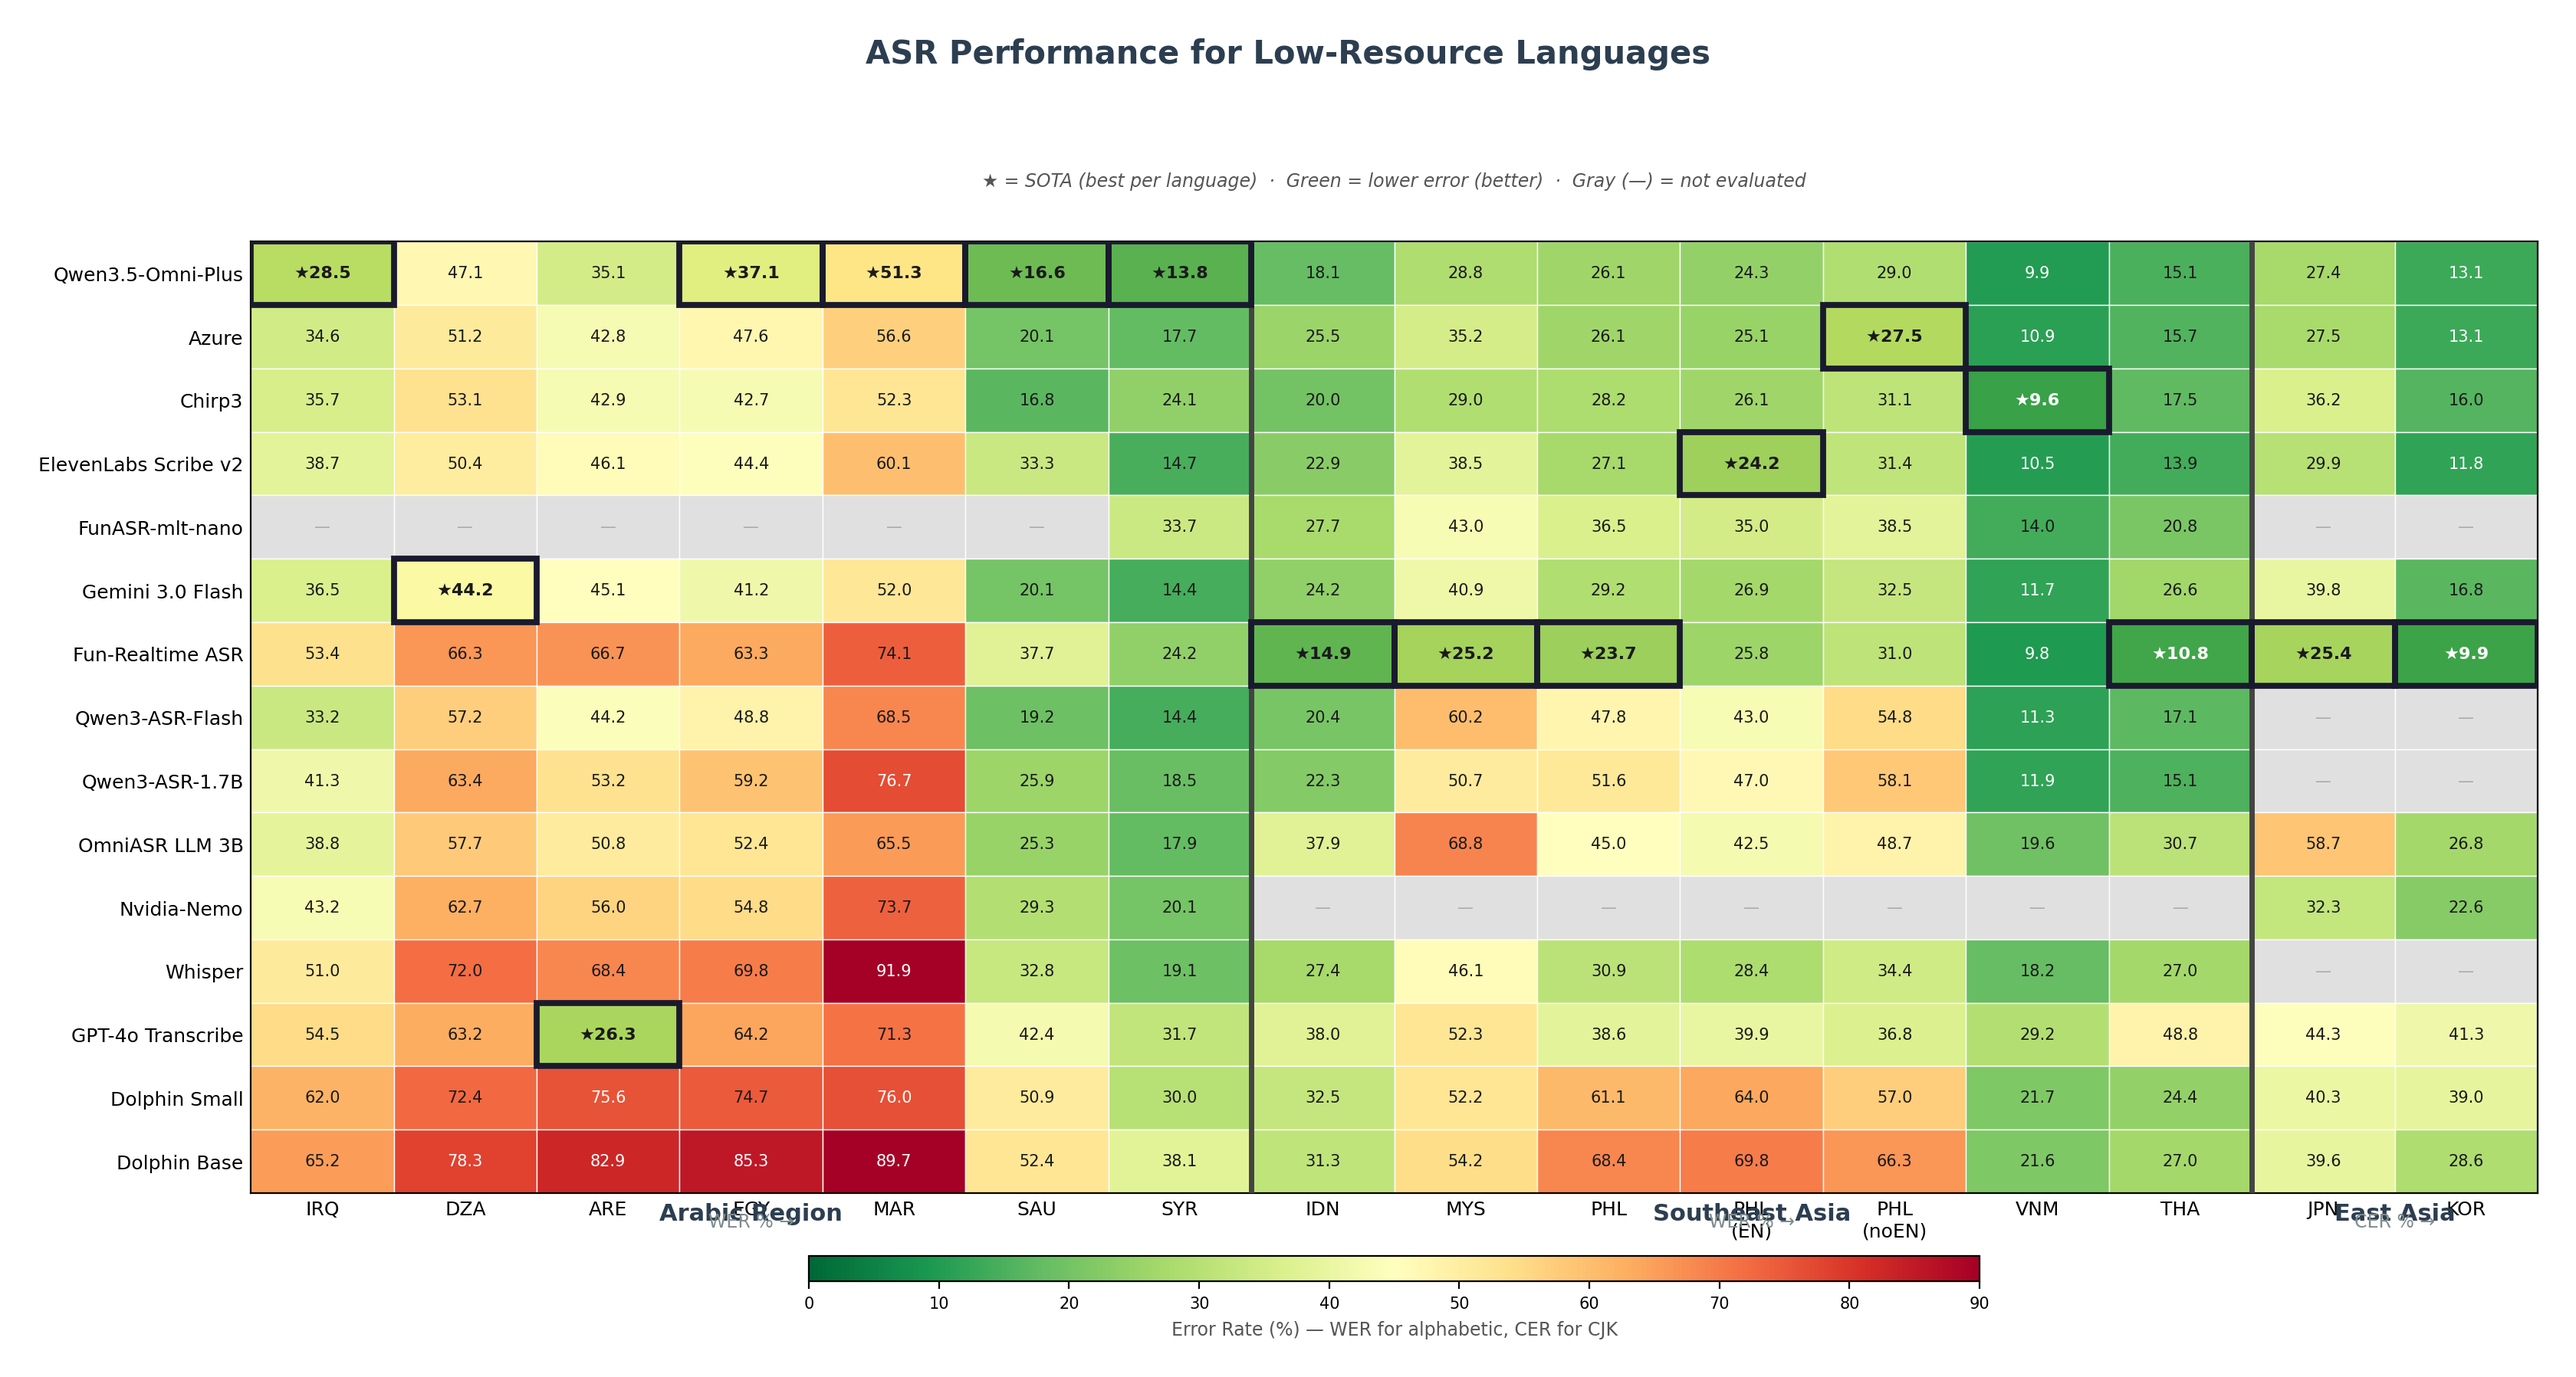
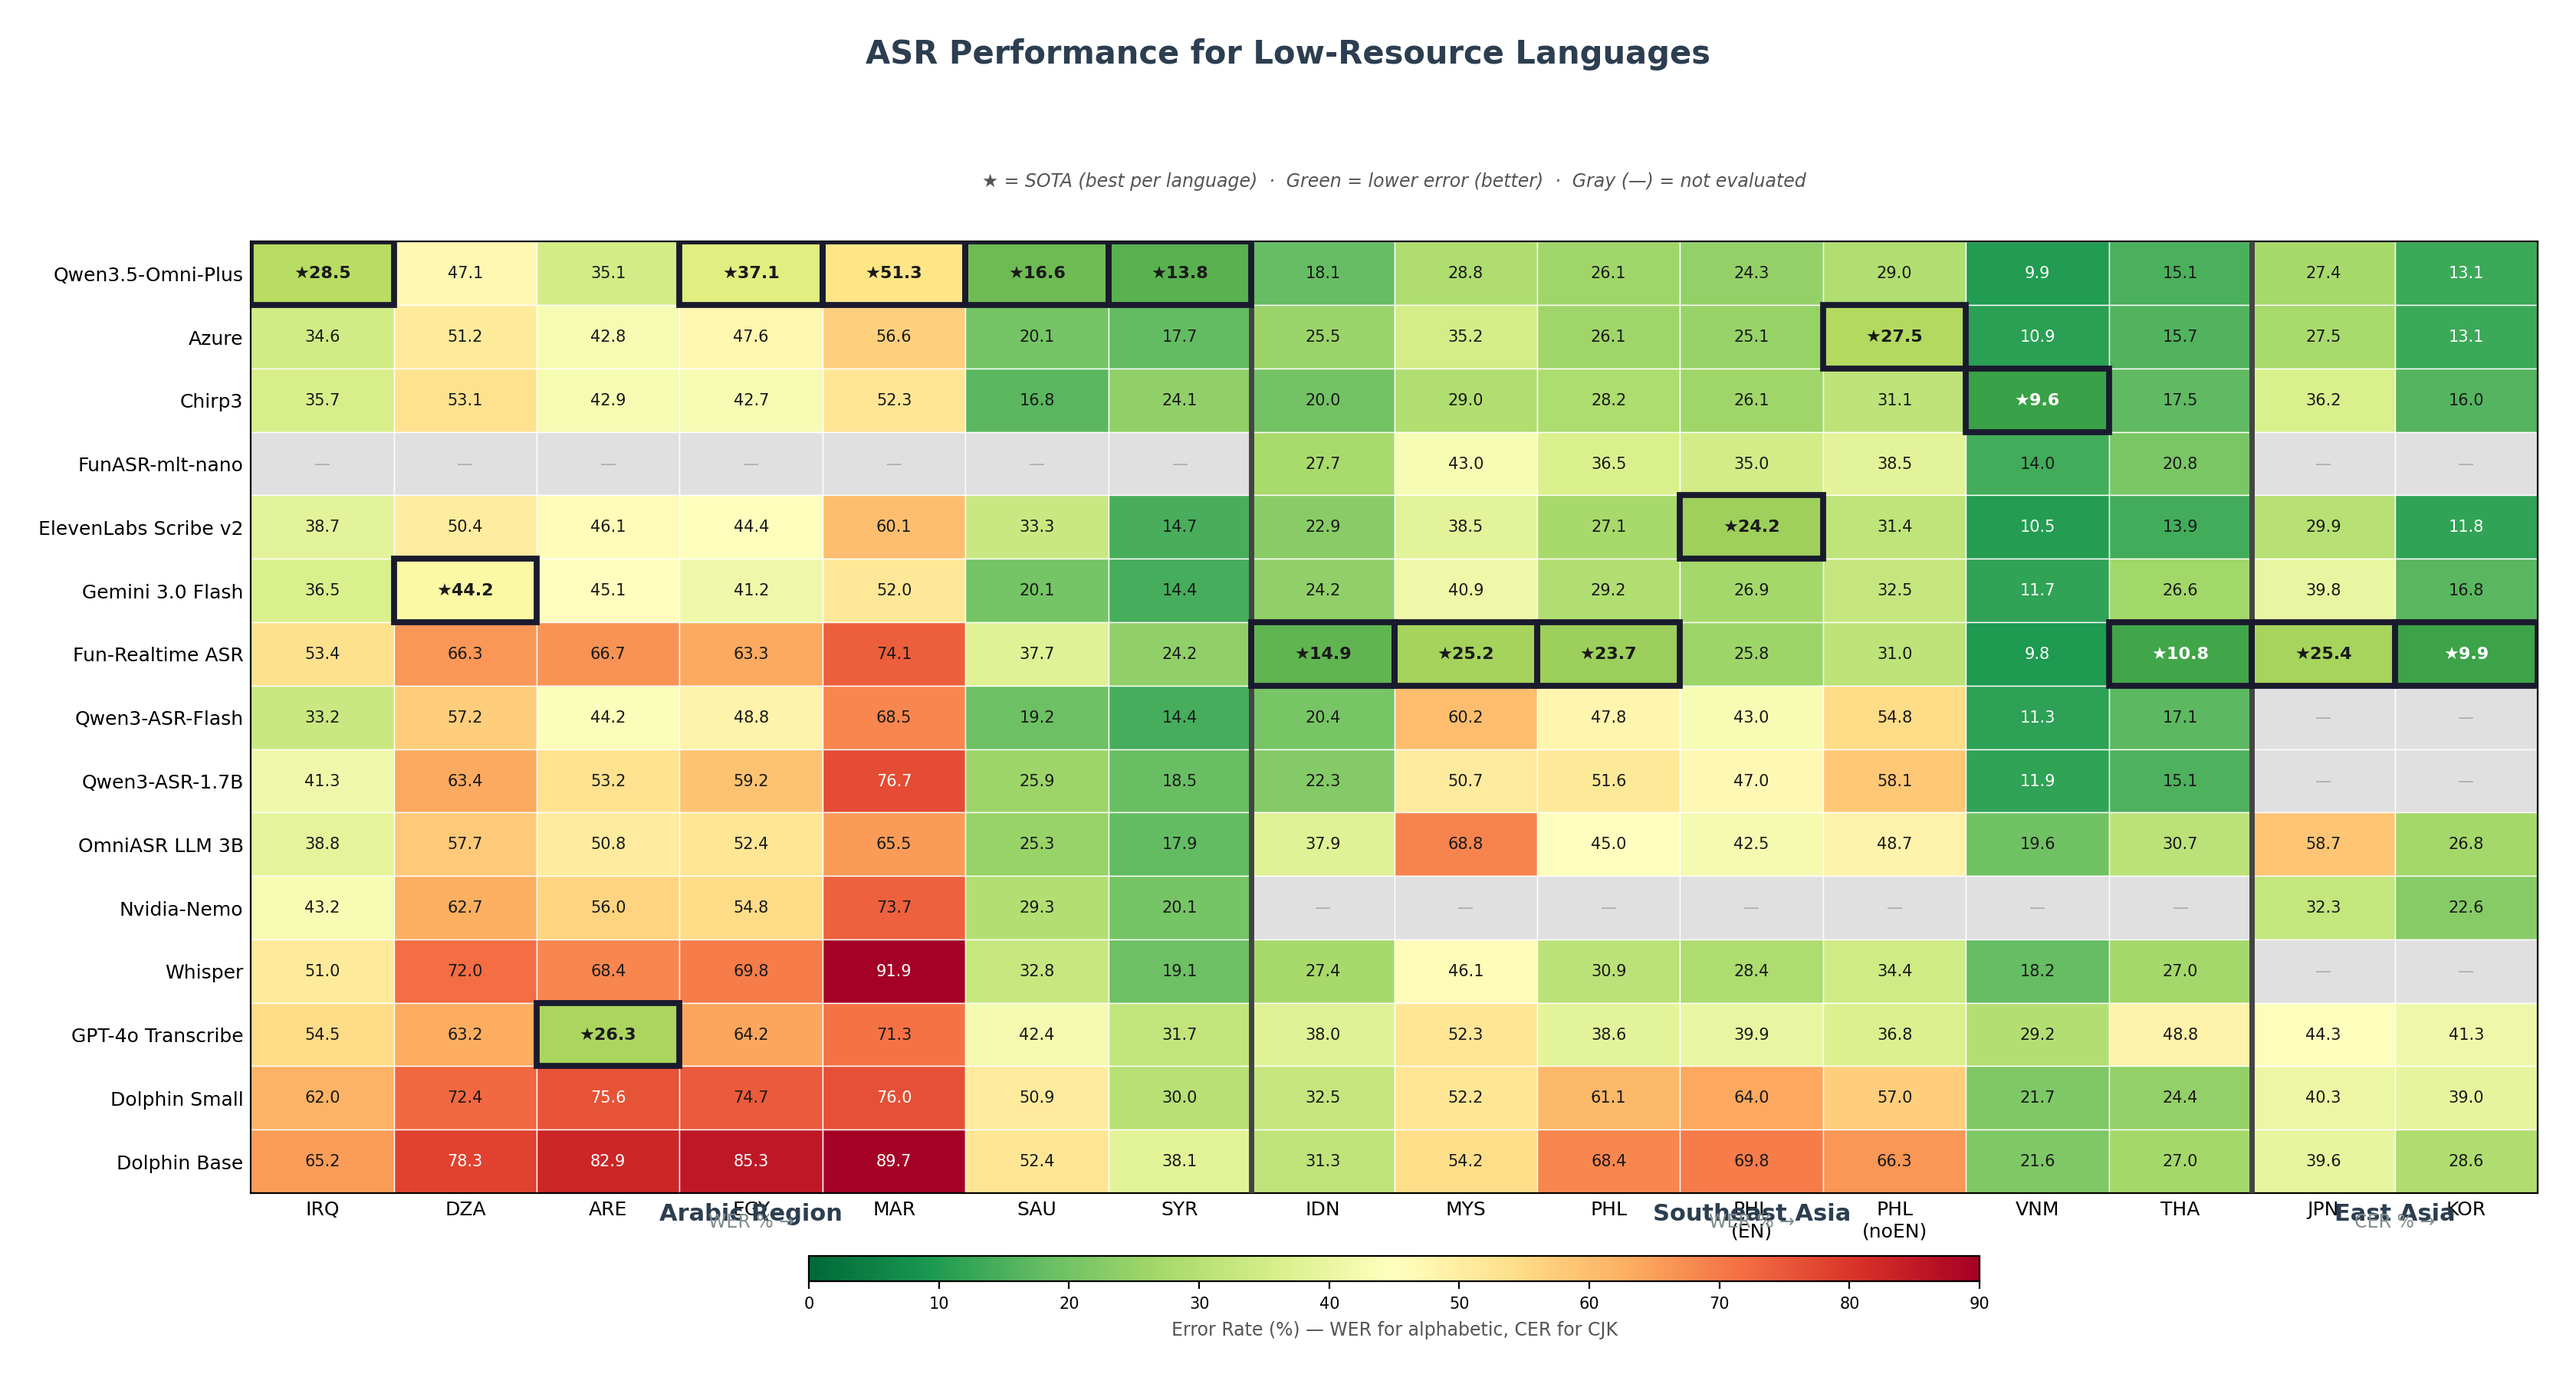
docs: clean up leaderboard tables — remove all-empty rows and sparse entries

Changed region(s): [[0.0312, 0.3116, 1.0, 0.4051]]

diff --git a/README.md b/README.md
@@ -72,7 +72,6 @@ We also welcome:
 | Gemini 3.0 Flash | 36.55 | **⭐44.22** | 45.06 | 41.22 | 51.99 | 20.10 | 14.40 |
 | Fun-Realtime-ASR | 53.44 | 66.30 | 66.70 | 63.33 | 74.10 | 37.67 | 24.24 |
 | Qwen3-ASR-Flash | 33.21 | 57.18 | 44.24 | 48.78 | 68.51 | 19.21 | 14.41 |
-| FunASR-mlt-nano | - | - | - | - | - | - | 33.66 |
 | Qwen3-ASR-1.7B | 41.27 | 63.43 | 53.22 | 59.23 | 76.65 | 25.85 | 18.50 |
 | OmniASR LLM 3B | 38.80 | 57.68 | 50.83 | 52.37 | 65.52 | 25.31 | 17.86 |
 | Nvidia-Nemo | 43.22 | 62.66 | 56.00 | 54.83 | 73.65 | 29.28 | 20.13 |
@@ -95,7 +94,6 @@ We also welcome:
 | FunASR-mlt-nano | 27.68 | 43.01 | 36.45 | 35.02 | 38.48 | 14.02 | 20.75 |
 | Qwen3-ASR-1.7B | 22.29 | 50.68 | 51.58 | 47.03 | 58.09 | 11.90 | 15.14 |
 | OmniASR LLM 3B | 37.91 | 68.79 | 45.03 | 42.49 | 48.67 | 19.60 | 30.72 |
-| Nvidia-Nemo | - | - | - | - | - | - | - |
 | Whisper | 27.40 | 46.15 | 30.88 | 28.40 | 34.41 | 18.17 | 27.02 |
 | GPT-4o Transcribe | 37.95 | 52.30 | 38.60 | 39.89 | 36.77 | 29.24 | 48.78 |
 | Dolphin Small | 32.53 | 52.19 | 61.08 | 63.96 | 56.97 | 21.68 | 24.40 |
@@ -111,12 +109,8 @@ We also welcome:
 | ElevenLabs Scribe v2 | 29.95 | **⭐11.81** |
 | Gemini 3.0 Flash | 39.84 | 16.78 |
 | Fun-Realtime-ASR | **⭐25.44** | **⭐9.92** |
-| Qwen3-ASR-Flash | - | - |
-| FunASR-mlt-nano | - | - |
-| Qwen3-ASR-1.7B | - | - |
 | OmniASR LLM 3B | 58.74 | 26.76 |
 | Nvidia-Nemo | 32.31 | 22.61 |
-| Whisper | - | - |
 | GPT-4o Transcribe | 44.34 | 41.31 |
 | Dolphin Small | 40.30 | 39.05 |
 | Dolphin Base | 39.61 | 28.59 |
